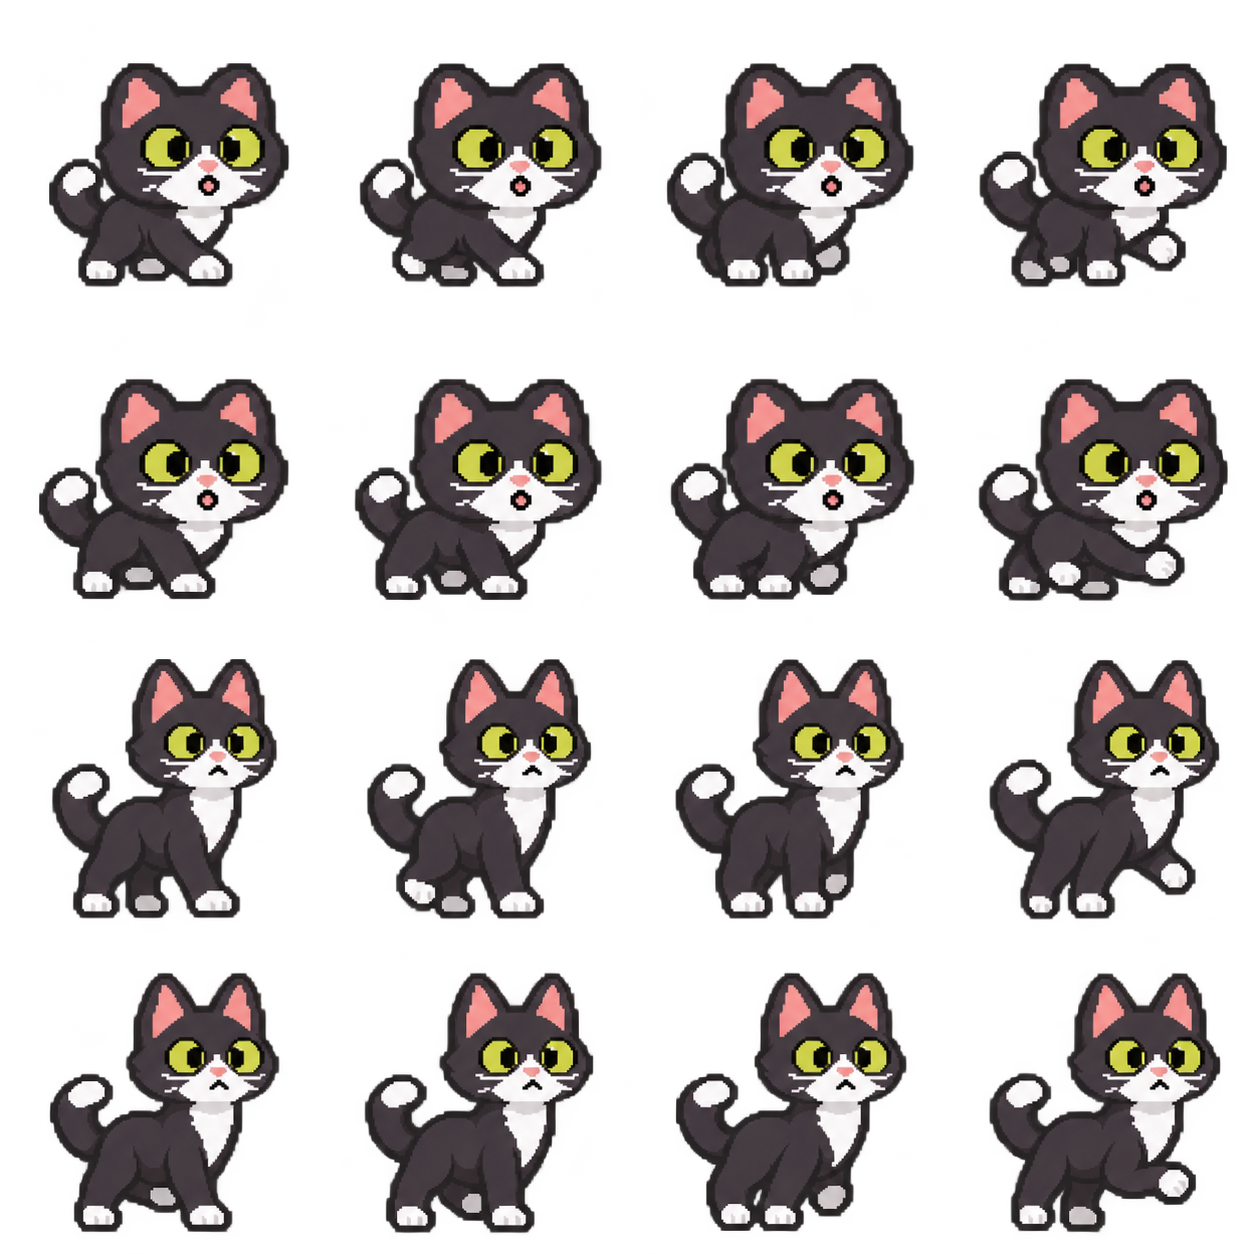
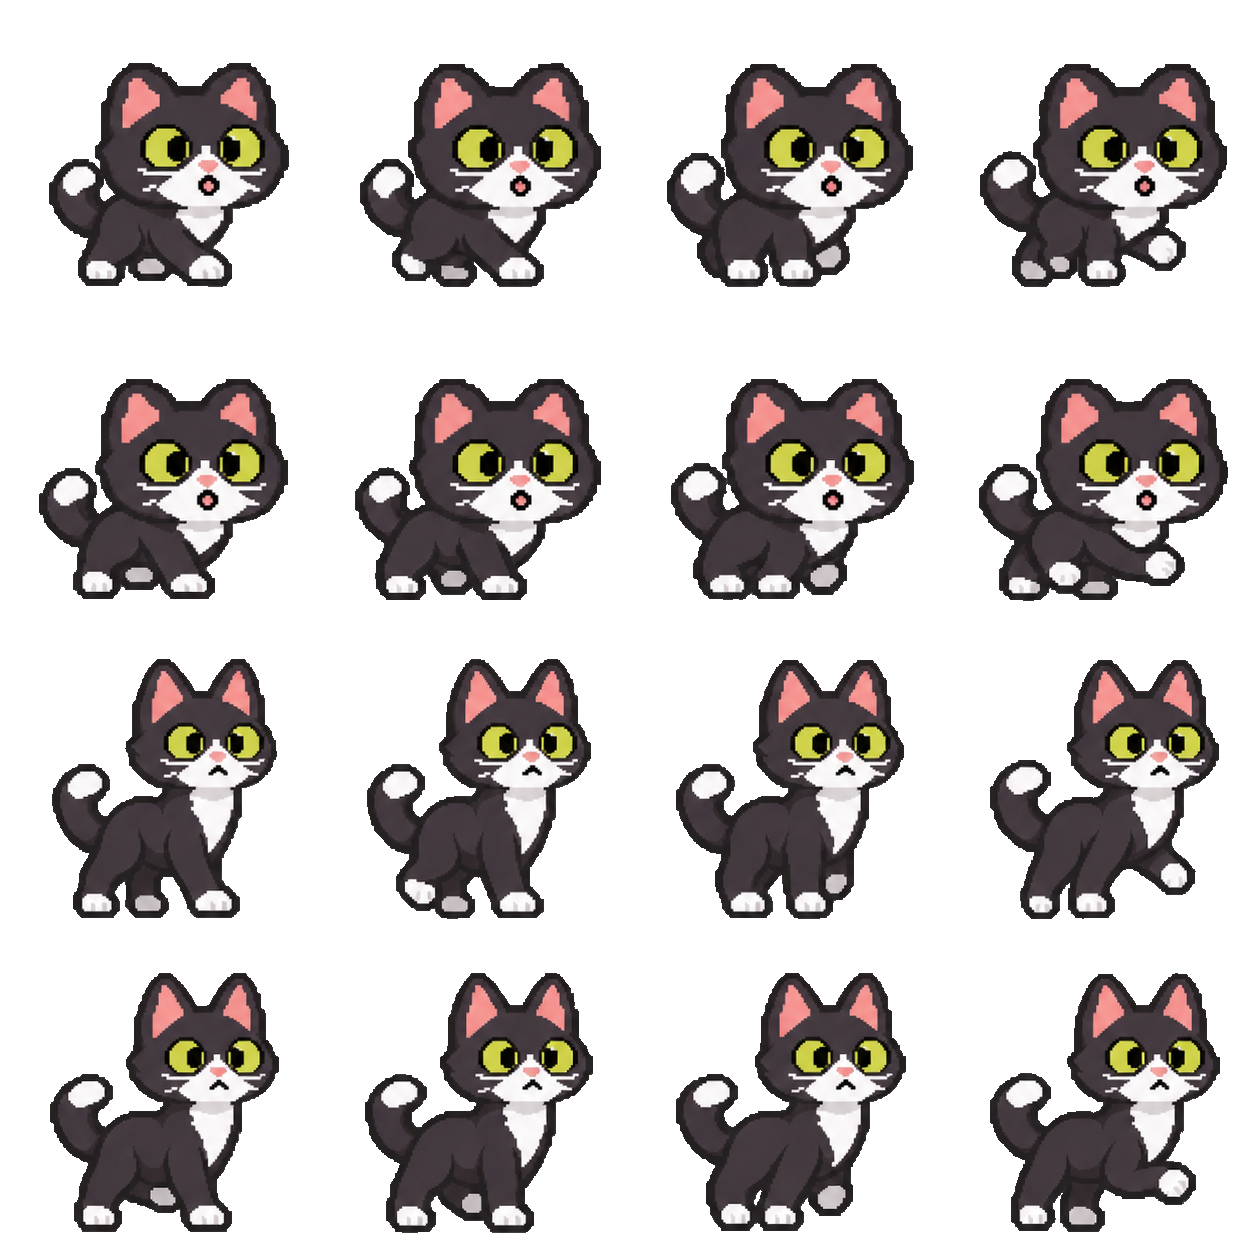
v0.9.1: clean background-removal leftovers from character atlases
- scripts/clean-sprites.mjs: alpha <128 -> transparent, >=128 -> opaque,
  drop islands under 20px per cell; colours untouched, idempotent
- Kitten, adult (v3) and walk atlases cleaned in place (100-190k faint
  haze pixels and 27-50k soft-edge pixels each removed)
- Tests: alpha is binary, nothing left to clean, all drawn atlases covered
- BALANCE B-UI-04, acceptance WEB-ANIM-06, release notes; ignore output/

diff --git a/tests/sprite-clean.test.js b/tests/sprite-clean.test.js
@@ -1,0 +1,25 @@
+import test from 'node:test';
+import assert from 'node:assert/strict';
+import { readFileSync } from 'node:fs';
+import { fileURLToPath } from 'node:url';
+import { decodePng } from '../scripts/sprite-align.mjs';
+import { SPRITE_SHEETS, cleanPixels } from '../scripts/clean-sprites.mjs';
+import { atlasFor } from '../motion.js';
+import { WALK_ATLAS } from '../roaming.js';
+
+test('every atlas the game draws is covered by the cleanup', () => {
+  const cleaned = SPRITE_SHEETS.map(({ file }) => '/public/assets/' + fileURLToPath(file).split('/').pop());
+  for (const src of [atlasFor('kitten').src, atlasFor('adult').src, WALK_ATLAS]) assert.ok(cleaned.includes(src), src);
+});
+
+for (const { file, grid } of SPRITE_SHEETS) {
+  const name = fileURLToPath(file).split('/').pop();
+  test(`${name}: background fully removed — alpha is only 0 or 255, no faint haze, halos or stray specks`, () => {
+    const image = decodePng(readFileSync(file));
+    let partial = 0;
+    for (let i = 3; i < image.pixels.length; i += 4) if (image.pixels[i] !== 0 && image.pixels[i] !== 255) partial++;
+    assert.equal(partial, 0, `${partial} semi-transparent pixels`);
+    const again = cleanPixels(image, grid);
+    assert.ok(Buffer.from(again.pixels).equals(Buffer.from(image.pixels)), 'stray specks or haze remain (run node scripts/clean-sprites.mjs)');
+  });
+}

diff --git a/index.html b/index.html
@@ -1,5 +1,5 @@
 <!doctype html>
-<html lang="zh-Hant" data-version="0.9.0">
+<html lang="zh-Hant" data-version="0.9.1">
 <head>
   <meta charset="UTF-8">
   <meta name="viewport" content="width=device-width,initial-scale=1">

diff --git a/docs/ACCEPTANCE_WEB.md b/docs/ACCEPTANCE_WEB.md
@@ -109,6 +109,7 @@
 | WEB-ANIM-01 | 🔴 | — | 檢查圖集 | 幼年、成年各 64 格透明 PNG（B-ANIM-09） | 自動：`both ages have a complete…` | PASS（`4498b03`） |
 | WEB-ANIM-02 | 🔴 | — | 檢查每個主要動作 | 8 個不同姿勢，總長 4–6 秒 | 自動：`every main action has eight distinct poses…` | PASS（`4498b03`） |
 | WEB-ANIM-04 | 🔴 | — | 量測每個動作相鄰兩格整隻貓的位移（`node scripts/sprite-align.mjs`） | 幼年、成年所有動作的相鄰影格位移都 ≤1px；程式對每格套用同一個定位，不逐格推動角色（B-ANIM-12） | 自動：`the whole cat moves at most 1px…`、`registration is one fixed offset…` | PASS（`80db55a`，`npm test` 31 項通過；所有動作相鄰影格 ≤1px） |
+| WEB-ANIM-06 | 🔴 | — | 檢查三張角色圖集；在房間裡看幼貓、成貓、走路 | 透明度只有 0 或 255，沒有灰霧、光暈、半透明邊或散落碎點；放在房間上輪廓是乾淨的硬邊（B-UI-04） | 自動：`background fully removed…`＋手動截圖 | PASS（v0.9.1 本機實測，見 [證據](evidence/WEB_v0.6_2026-11-05.md)） |
 | WEB-ANIM-05 | 🔴 | 幼年、成年各一次 | 依序播放餐食、清潔、玩耍、摸摸、睡覺、點心、洗臉、伸懶腰、看窗外，以及閒置小動作，盯著腳底與身體 | 腳底不上下跳、身體不左右滑；只有頭、爪子、尾巴在動 | 手動（錄影） | NOT RUN |
 | WEB-ANIM-03 | 🔴 | 同一成長階段 | 播放任一動作，比對動作前後角色外框 | 位置與尺寸誤差 ≤1px；不旋轉、不縮放；尺寸只在長大時改變（B-ANIM-10） | 自動：`character scale depends only on growth…`＋手動截圖 | PASS（`6e14e86` 線上實測，見 [證據](evidence/WEB_v0.6_2026-11-05.md)） |
 
@@ -132,9 +133,9 @@
 
 | 項目 | 數量 |
 |---|---|
-| 總數 | 48 |
-| PASS | 47 |
+| 總數 | 49 |
+| PASS | 48 |
 | NOT RUN | 1（WEB-ANIM-05 需人眼觀看） |
 | FAIL | 0 |
 
-**Web v0.8.2**（2026-11-05，commit `39e35da`）：48 項中 47 項 PASS、0 件 FAIL；WEB-ANIM-05 需要人眼看動畫，請驗收者補做。
+**Web v0.9.1**（2026-11-06）：49 項中 48 項 PASS、0 件 FAIL；WEB-ANIM-05 需要人眼看動畫，請驗收者補做。v0.9.0 散步功能的驗收見 RELEASE_0.9.0.md。

diff --git a/docs/RELEASE_0.9.1.md b/docs/RELEASE_0.9.1.md
@@ -1,0 +1,19 @@
+# v0.9.1 角色去背清理
+
+2026-11-06。依回饋「角色未去背乾淨」。
+
+## 問題
+三張角色圖集（`momo-kitten-64-v2.png`、`momo-adult-64-v3.png`、`didi-walk-v1.png`）都有生圖留下的殘留：
+- 每隻貓外圍一圈幾乎透明的深色陰影（每張 10–19 萬像素，透明度 1–31），放在房間上像灰霧光暈；
+- 空白處散落的殘點，走路圖最多；
+- 輪廓一圈半透明邊（3–5 萬像素），像素風應為硬邊。
+
+## 修正
+- 新增 `scripts/clean-sprites.mjs`：透明度 <128 清為完全透明，其餘補成完全不透明；每格中小於 20 像素的獨立碎點刪除；只改透明度、不改顏色，重跑結果不變（B-UI-04）。
+- 三張圖集已清理並覆蓋原檔，檔案也變小（1.87→1.43 MB、1.69→1.24 MB、1.21→0.93 MB）。
+- 新增測試：三張圖的透明度只有 0／255、沒有可再清的殘點，且遊戲用到的每張角色圖都納入清理。舊圖跑這組測試會失敗。
+
+## 已知限制
+成貓「玩毛線」那幾格，毛線球後方有一團畫進圖裡的紫灰色影子（不透明，顏色與毛色陰影重疊），程式無法安全清除，需要重畫那 8 格。
+
+Node 測試 47 項通過。

diff --git a/docs/evidence/WEB_v0.6_2026-11-05.md b/docs/evidence/WEB_v0.6_2026-11-05.md
@@ -83,3 +83,9 @@
 | WEB-DEPLOY-01 | 線上 `app.js`、`styles.css`、`index.html` 與 GitHub `main` 一致；選單 → 設定 顯示「版本 v0.8.2」 |
 | WEB-UI-01 | 本機 320×568／375×812／768×1024／1440×900：頁面寬高 = 視窗，無捲軸；蛋形左右 4–312／4–367／106–657／442–993px，上下完整；螢幕 162／190／289／289px。線上 375×812 相同（A/B/C 中心 104,566／184,578／266,566，對準按鈕） |
 | WEB-UI-05 | 線上 375×812：電子機以外可見文字元素 0 個；h1 與操作說明為 sr-only |
+
+## v0.9.1 去背（2026-11-06，本機）
+
+| ID | 實測 |
+|---|---|
+| WEB-ANIM-06 | 清理前：幼貓／成貓／走路圖透明度 1–31 的殘留 188,668／131,381／108,277 像素、32–223 半透明 49,626／45,046／27,628 像素；清理後皆為 0。對照圖逐格比對房間底色上的幼貓待機、玩毛線、睡覺，成貓待機、玩毛線、伸展，走路 3 格：灰霧光暈與碎點消失、輪廓為硬邊。瀏覽器成年玩毛線畫面確認無光暈；毛線球後方紫灰影子為原圖繪製，列為已知限制 |

diff --git a/docs/BALANCE.md b/docs/BALANCE.md
@@ -82,6 +82,7 @@
 |---|---|---|
 | B-UI-01 | 像素風介面 | 螢幕內元件一律直角缺角像素框（2px 深色外框＋上亮下暗）、硬邊色塊、像素箭頭；數值條為 10 格色塊（<25 紅、<65 黃、其餘綠）；文字關閉反鋸齒，字型維持系統字 |
 | B-UI-03 | 版面 | 頁面只顯示電子機，機外沒有文字；說明文字只給讀螢幕軟體。電子機寬度 = min((視窗寬 − 12px) ÷ 0.81, (視窗高 − 12px) × 1127/1396 ÷ 0.94, 680px)：蛋形佔外殼圖寬 81%，手機上蛋形貼齊畫面左右各留約 6px；版本號顯示在 選單 → 設定 |
+| B-UI-04 | 角色去背 | 角色圖集（幼貓、成貓、走路）透明度只有 0 或 255：透明度 <128 一律清除（陰影、霧邊、殘點），其餘為硬邊；每格中小於 20 像素的獨立碎點刪除；只改透明度、不改顏色。新圖加入後執行 `node scripts/clean-sprites.mjs`，測試把關 |
 | B-UI-02 | 名字 | 寵物名 didi；舊存檔名字 MOMO 載入時改為 didi，自訂名字保留 |
 
 ## B-ANIM｜動畫時間

diff --git a/README.md b/README.md
@@ -4,7 +4,7 @@
 
 公開 Preview：<https://tamagotchi-uni-inspired-virtual-pet.vercel.app>
 
-> **現行版本 v0.8.2**，變更見 [docs/RELEASE_0.8.2.md](docs/RELEASE_0.8.2.md)（[v0.8.1](docs/RELEASE_0.8.1.md)、[v0.8](docs/RELEASE_0.8.md)、[v0.7](docs/RELEASE_0.7.md)、[v0.6](docs/RELEASE_0.6.md)）。下方 v0.5 段落是歷史紀錄；操作與數值以 [docs/BALANCE.md](docs/BALANCE.md) 為準，驗收照 [docs/ACCEPTANCE_WEB.md](docs/ACCEPTANCE_WEB.md)。
+> **現行版本 v0.9.1**，變更見 [docs/RELEASE_0.9.1.md](docs/RELEASE_0.9.1.md)（[v0.9.0](docs/RELEASE_0.9.0.md)、[v0.8.2](docs/RELEASE_0.8.2.md)、[v0.8.1](docs/RELEASE_0.8.1.md)、[v0.8](docs/RELEASE_0.8.md)、[v0.7](docs/RELEASE_0.7.md)、[v0.6](docs/RELEASE_0.6.md)）。下方 v0.5 段落是歷史紀錄；操作與數值以 [docs/BALANCE.md](docs/BALANCE.md) 為準，驗收照 [docs/ACCEPTANCE_WEB.md](docs/ACCEPTANCE_WEB.md)。
 
 ## 網頁原型 v0.5：使用 4×4 Sprite Atlas 逐格角色動畫
 
